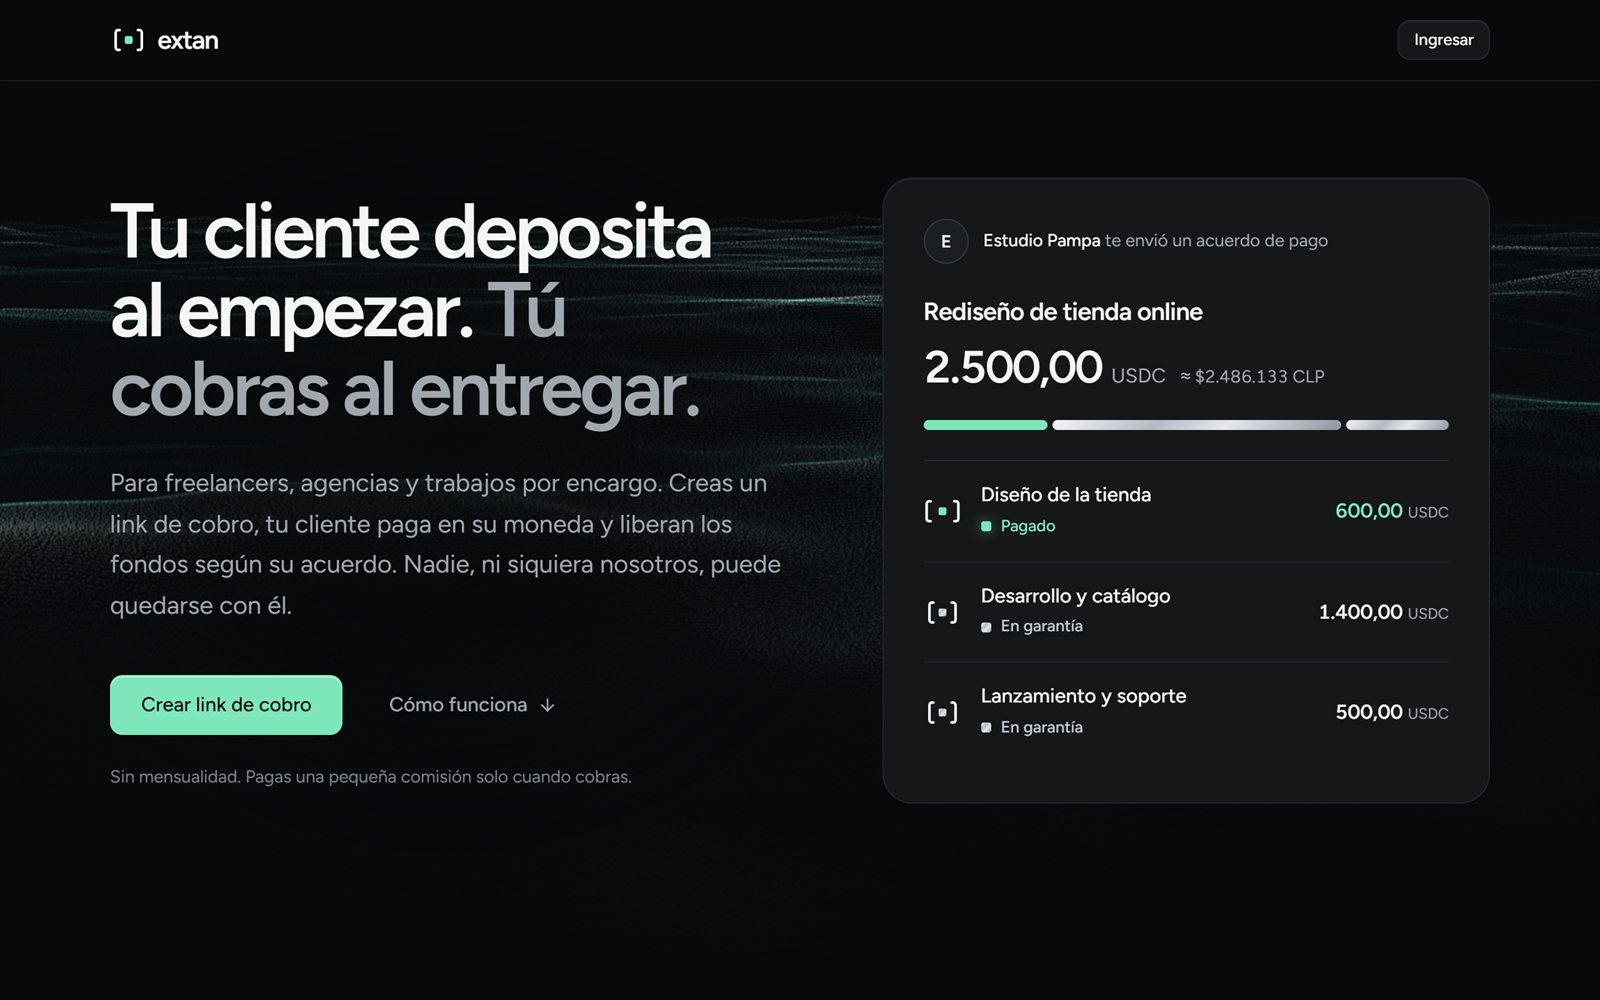
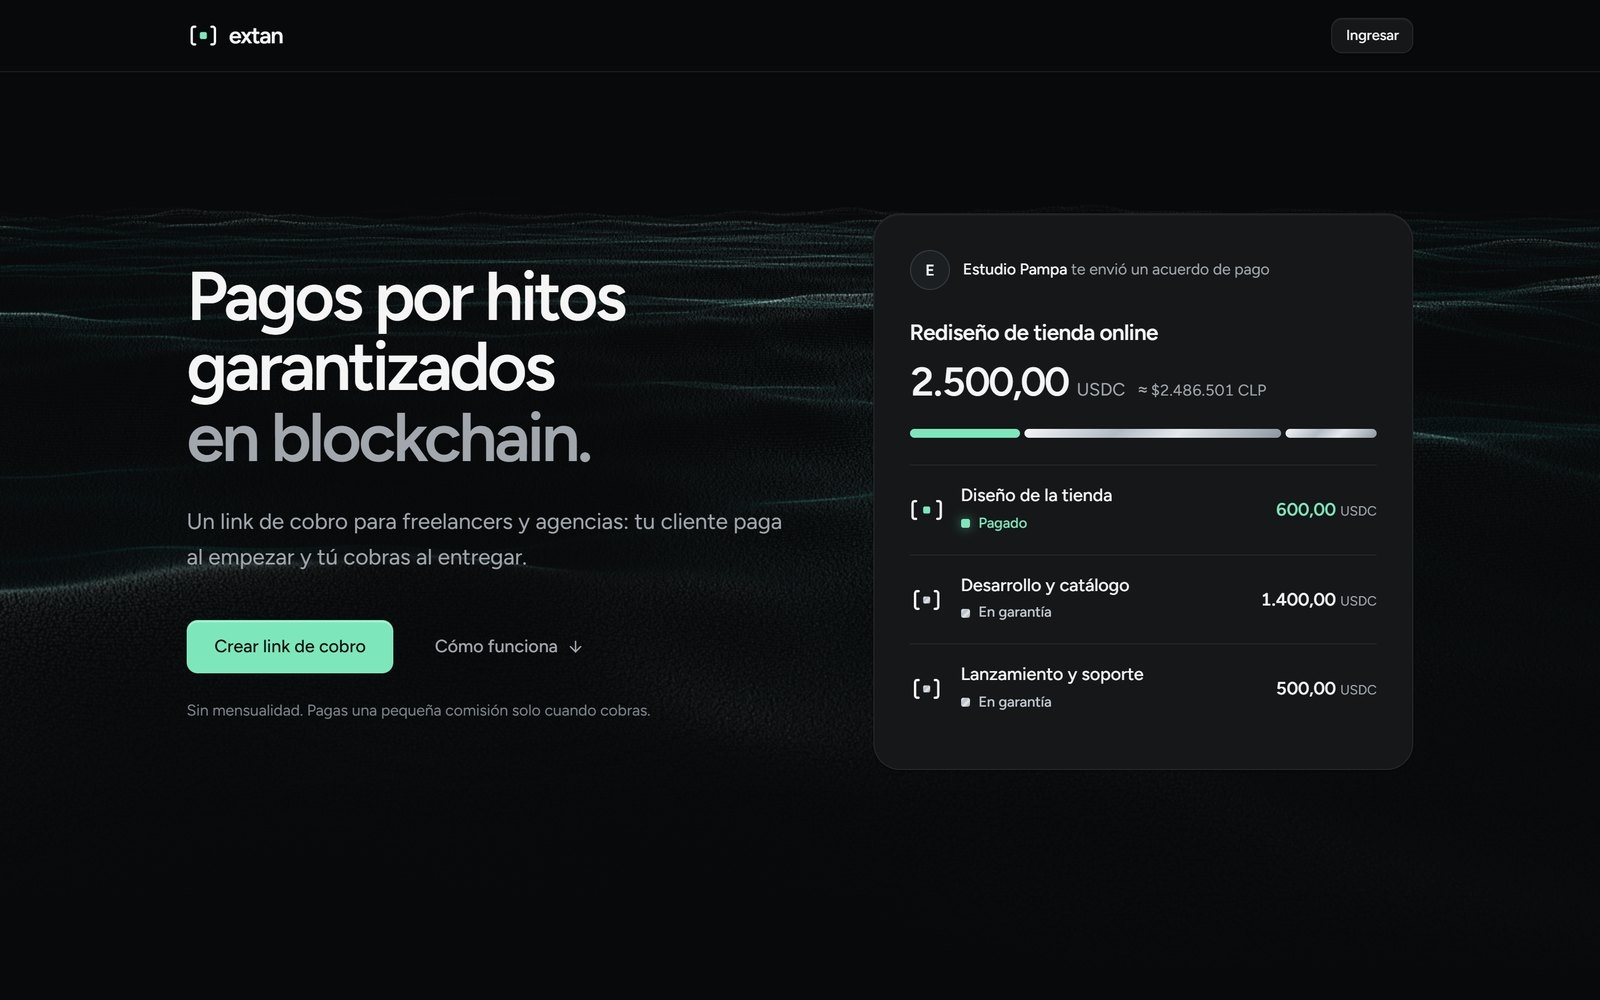
feat: portada con titular nuevo, luz de tarjetas en táctil y mar nítido en teléfonos
- H1 "Pagos por hitos garantizados en blockchain." y una sola bajada para móvil y escritorio.
- Borde más visible en "Cómo funciona" y flecha centrada ópticamente con el texto.
- SpotlightCard en táctil: la luz recorre el borde superior al pasar por el centro de la pantalla.
- Mar del hero a la densidad nativa en teléfonos (hasta 3x), con bajada automática si no sostiene la animación.
- README en inglés y español con la frase nueva y capturas de la portada al día.

diff --git a/apps/web/src/components/motion.tsx b/apps/web/src/components/motion.tsx
@@ -21,8 +21,18 @@ const RING_MASK: CSSProperties = {
 };
 
 /**
- * Superficie cuyo borde y brillo siguen al puntero. La posición se escribe como variable CSS (sin re-render) y el
- * efecto solo aparece al pasar el mouse, así que en táctil la tarjeta queda quieta.
+ * Recorrido táctil: un foco más chico que el del mouse, para que se lea como una luz que avanza, y más intenso,
+ * porque no hay un cursor encima que lo acerque a la vista.
+ */
+const SWEEP = cn(
+  "group-data-[sweep]/spot:animate-spot-sweep group-data-[sweep]/spot:[--spot-size:220px]",
+  "group-data-[sweep]/spot:[--spot-edge:rgb(125_231_187/0.95)] group-data-[sweep]/spot:[--spot-glow:rgb(125_231_187/0.08)]",
+);
+
+/**
+ * Superficie cuyo borde y brillo siguen al puntero. La posición se escribe como variable CSS (sin re-render). En
+ * táctil no hay puntero que seguir: la luz recorre el borde superior de izquierda a derecha cada vez que la tarjeta
+ * pasa por el centro de la pantalla.
  */
 export function SpotlightCard({
   children,
@@ -39,6 +49,27 @@ export function SpotlightCard({
   as?: ElementType;
 } & Omit<ComponentPropsWithoutRef<"div">, "children" | "className" | "style" | "onPointerMove">) {
   const ref = useRef<HTMLElement>(null);
+
+  useEffect(() => {
+    const host = ref.current;
+    if (!host || !window.matchMedia("(hover: none) and (prefers-reduced-motion: no-preference)").matches) return;
+    const observer = new IntersectionObserver(
+      ([entry]) => {
+        if (entry?.isIntersecting) host.dataset.sweep = "";
+      },
+      // Franja central del 20 % del alto: la tarjeta se ilumina cuando el dedo la trae al centro, no al asomarse.
+      { rootMargin: "-40% 0px -40% 0px" },
+    );
+    const finish = (event: AnimationEvent) => {
+      if (event.animationName === "spot-sweep") delete host.dataset.sweep;
+    };
+    observer.observe(host);
+    host.addEventListener("animationend", finish);
+    return () => {
+      observer.disconnect();
+      host.removeEventListener("animationend", finish);
+    };
+  }, []);
 
   function track(event: PointerEvent<HTMLElement>) {
     const host = ref.current;
@@ -58,7 +89,11 @@ export function SpotlightCard({
     >
       <span
         aria-hidden="true"
-        className="pointer-events-none absolute -inset-px rounded-[inherit] p-px opacity-0 transition-opacity duration-300 group-hover/spot:opacity-100 motion-reduce:hidden"
+        className={cn(
+          "pointer-events-none absolute -inset-px rounded-[inherit] p-px opacity-0 transition-opacity duration-300 group-hover/spot:opacity-100 motion-reduce:hidden",
+          SWEEP,
+          "group-data-[sweep]/spot:p-[1.5px]",
+        )}
         style={{
           background:
             "radial-gradient(var(--spot-size) circle at var(--spot-x, 50%) var(--spot-y, 0%), var(--spot-edge), transparent 70%)",
@@ -67,7 +102,10 @@ export function SpotlightCard({
       />
       <span
         aria-hidden="true"
-        className="pointer-events-none absolute inset-0 rounded-[inherit] opacity-0 transition-opacity duration-300 group-hover/spot:opacity-100 motion-reduce:hidden"
+        className={cn(
+          "pointer-events-none absolute inset-0 rounded-[inherit] opacity-0 transition-opacity duration-300 group-hover/spot:opacity-100 motion-reduce:hidden",
+          SWEEP,
+        )}
         style={{
           background:
             "radial-gradient(var(--spot-size) circle at var(--spot-x, 50%) var(--spot-y, 0%), var(--spot-glow), transparent 70%)",

diff --git a/apps/web/src/app/page.tsx b/apps/web/src/app/page.tsx
@@ -93,30 +93,27 @@ export default function HomePage() {
             {/* En vertical, el horizonte del mar se ubica justo debajo de este bloque. */}
             <div data-sea-horizon>
               <h1 className="text-[clamp(2.5rem,1.3rem+3.4vw,3.875rem)] leading-[1.02] tracking-[-0.045em]">
-                Tu cliente deposita al empezar. <span className="text-muted-foreground">Tú cobras al entregar.</span>
+                Pagos por hitos garantizados <span className="text-muted-foreground">en blockchain.</span>
               </h1>
-              <p className="mt-5 t-lead sm:hidden">
-                Creas un link de cobro y tu cliente paga en su moneda. El dinero queda en garantía hasta cada entrega.
-              </p>
-              <p className="mt-7 hidden t-lead sm:block sm:text-xl sm:leading-relaxed">
-                Para freelancers, agencias y trabajos por encargo. Creas un link de cobro, tu cliente paga en su moneda
-                y liberan los fondos según su acuerdo. Nadie, ni siquiera nosotros, puede quedarse con él.
+              <p className="mt-5 t-lead sm:mt-7 sm:text-xl sm:leading-relaxed">
+                Un link de cobro para freelancers y agencias: tu cliente paga al empezar y tú cobras al entregar.
               </p>
             </div>
             <div className="mt-auto flex flex-col gap-3 pt-10 sm:flex-row sm:flex-wrap sm:items-center lg:mt-10 lg:pt-0">
               <Button asChild size="xl" className="w-full sm:w-auto">
                 <Link href="/dashboard/new">Crear link de cobro</Link>
               </Button>
-              {/* Sobre el mar lleva borde y fondo translúcido; en escritorio vuelve a ser un botón fantasma. */}
+              {/* Sobre el mar lleva borde marcado y fondo translúcido; en escritorio vuelve a ser un botón fantasma. */}
               <Button
                 asChild
                 size="xl"
                 variant="ghost"
-                className="group/how w-full border-border bg-background/50 text-foreground backdrop-blur-md sm:w-auto lg:border-transparent lg:bg-transparent lg:text-muted-foreground lg:backdrop-blur-none"
+                className="group/how w-full border-line-strong bg-background/50 text-foreground backdrop-blur-md sm:w-auto lg:border-transparent lg:bg-transparent lg:text-muted-foreground lg:backdrop-blur-none"
               >
                 <a href="#como-funciona">
                   Cómo funciona
-                  <ArrowDownIcon className="transition-transform duration-200 group-hover/how:translate-y-0.5" />
+                  {/* Centrado óptico: la punta de la flecha carga su peso abajo y la hacía ver más baja que el texto. */}
+                  <ArrowDownIcon className="-translate-y-[0.5px] transition-transform duration-200 group-hover/how:translate-y-0.5" />
                 </a>
               </Button>
             </div>

diff --git a/apps/web/src/components/landing/sea-background.tsx b/apps/web/src/components/landing/sea-background.tsx
@@ -122,7 +122,14 @@ const PRESETS = {
 };
 /** Aire entre el final del texto y el horizonte, en px. */
 const HORIZON_GAP = 28;
-const MAX_DPR = 1.5;
+/**
+ * Resolución del canvas. En teléfonos se dibuja a la densidad nativa (hasta 3×): a 1,5× el navegador lo estiraba al
+ * doble y las olas se veían borrosas. En escritorio el canvas es mucho más grande y 1,5× ya se ve nítido. El tope de
+ * píxeles protege a las tablets, y si el equipo no sostiene la animación se baja la resolución (ver `adapt`).
+ */
+const MAX_DPR_HANDHELD = 3;
+const MAX_DPR_DESKTOP = 1.5;
+const PIXEL_BUDGET = 4_500_000;
 
 function hexToRgb(hex: string): [number, number, number] {
   const value = Number.parseInt(hex.replace("#", ""), 16);
@@ -304,6 +311,10 @@ export function SeaBackground({
     let frame = 0;
     let visible = false;
     let shown = false;
+    let dpr = 1;
+    let dprCap = Infinity;
+    let sampledFrames = 0;
+    let sampledTime = 0;
 
     function draw() {
       gl!.clear(gl!.COLOR_BUFFER_BIT);
@@ -319,7 +330,13 @@ export function SeaBackground({
     function resize() {
       const rect = canvas.getBoundingClientRect();
       if (!rect.width || !rect.height) return;
-      const dpr = Math.min(window.devicePixelRatio || 1, MAX_DPR);
+      const maxDpr = rect.width < 1024 ? MAX_DPR_HANDHELD : MAX_DPR_DESKTOP;
+      dpr = Math.min(
+        window.devicePixelRatio || 1,
+        maxDpr,
+        dprCap,
+        Math.sqrt(PIXEL_BUDGET / (rect.width * rect.height)),
+      );
       canvas.width = Math.round(rect.width * dpr);
       canvas.height = Math.round(rect.height * dpr);
       gl!.viewport(0, 0, canvas.width, canvas.height);
@@ -351,11 +368,32 @@ export function SeaBackground({
       draw();
     }
 
+    /**
+     * Si el equipo no sostiene unos 40 cuadros por segundo, baja la resolución un paso, hasta 1,5×. Mide 60 cuadros
+     * después de 20 de calentamiento.
+     */
+    function adapt(delta: number) {
+      if (dpr <= MAX_DPR_DESKTOP) return;
+      sampledFrames++;
+      if (sampledFrames <= 20) return;
+      sampledTime += delta;
+      if (sampledFrames < 80) return;
+      const average = sampledTime / 60;
+      sampledFrames = 0;
+      sampledTime = 0;
+      if (average > 25) {
+        dprCap = Math.max(MAX_DPR_DESKTOP, dpr - 0.75);
+        resize();
+      }
+    }
+
     function tick(now: number) {
       // Tope al salto entre cuadros: al volver de otra pestaña el mar sigue donde estaba.
-      time += (Math.min(now - (last || now), 50) / 1000) * speed;
+      const delta = Math.min(now - (last || now), 50);
+      time += (delta / 1000) * speed;
       last = now;
       draw();
+      adapt(delta);
       frame = requestAnimationFrame(tick);
     }
 

diff --git a/apps/web/src/app/globals.css b/apps/web/src/app/globals.css
@@ -54,6 +54,7 @@
   --animate-reveal: reveal 300ms var(--ease-out-soft) both;
   /* Toma su período de un --duration en línea: un solo keyframe para todas las velocidades. */
   --animate-shine: shine var(--duration) infinite linear;
+  --animate-spot-sweep: spot-sweep 1.8s ease-in-out;
 }
 
 :root {
@@ -298,6 +299,27 @@
   }
   100% {
     transform: scale(1);
+  }
+}
+
+/* Registrada para poder animarla: en táctil la luz de `SpotlightCard` recorre el borde superior de lado a lado. */
+@property --spot-x {
+  syntax: "<length-percentage>";
+  inherits: true;
+  initial-value: 50%;
+}
+@keyframes spot-sweep {
+  from {
+    --spot-x: -10%;
+    opacity: 0;
+  }
+  25%,
+  75% {
+    opacity: 1;
+  }
+  to {
+    --spot-x: 110%;
+    opacity: 0;
   }
 }
 

diff --git a/docs/roadmap.md b/docs/roadmap.md
@@ -286,6 +286,23 @@ Notas del primer recorrido real (cliente y proveedor con wallet embebida de Priv
       `$2.480.484 CLP`; CLP sin centavos). Al escribir montos, el punto es separador de miles: "2.500" ya no se lee
       como 2,5 y lo ambiguo se rechaza con una indicación.
 
+#### Portada en teléfonos reales (2026-11-13)
+
+Revisión hecha con la primera versión publicada en Vercel, en un Android y en un iPhone Pro Max.
+
+- [x] **H1 y bajada:** "Pagos por hitos garantizados en blockchain." y una sola bajada para móvil y escritorio: "Un
+      link de cobro para freelancers y agencias: tu cliente paga al empezar y tú cobras al entregar." El hero ya no
+      promete "paga en su moneda" mientras no haya on-ramp; esa promesa sigue más abajo. README e imágenes al día.
+- [x] **Proporciones en teléfonos grandes:** en un iPhone Pro Max todo se veía más chico. Se probó escalar la
+      interfaz completa con el ancho (16 a 18 px de base) y se descartó: se veía apretada y tosca. Queda el tamaño
+      fijo, que deja más aire en pantallas grandes.
+- [x] **"Cómo funciona":** sobre el mar, el botón lleva un borde más visible.
+- [x] **`SpotlightCard` en táctil:** sin mouse, la luz recorre el borde superior de izquierda a derecha cuando la
+      tarjeta pasa por el centro de la pantalla.
+- [x] **Mar del hero borroso en teléfonos:** el canvas se dibujaba como máximo a 1,5× y el navegador lo estiraba en
+      pantallas 3×. Ahora usa la densidad nativa (hasta 3×) y baja la resolución si el equipo no sostiene unos 40
+      cuadros por segundo. En escritorio sigue en 1,5×.
+
 **Cierre:** guía de marca aprobada, dominio comprado y todas las superficies existentes revisadas.
 
 ## Fase 5: Bases técnicas y staging

diff --git a/README.es.md b/README.es.md
@@ -1,8 +1,8 @@
 # extan
 
-**Pagos en garantía por hitos, en USDC sobre Base.** Un freelancer o una agencia crea un link de cobro dividido en
-hitos; el cliente deposita el total una vez y cada hito se paga cuando se aprueba su entrega. El dinero queda en un
-smart contract público, nunca en manos de la plataforma.
+**Pagos por hitos garantizados en blockchain.** Un link de cobro para freelancers y agencias: el cliente paga al
+empezar y el proveedor cobra al entregar. El depósito, en USDC sobre Base, queda en un smart contract público y nunca
+en manos de la plataforma; cada hito se libera cuando se aprueba su entrega.
 
 [English](README.md) · [Contrato verificado](https://base-sepolia.blockscout.com/address/0xb7BABf0046fb8Bb2E3Ea0e6B75abdDEb31B9F863?tab=contract) · [Informe de análisis estático](docs/analisis-estatico.md) · Demo pública: pronto
 

diff --git a/README.md b/README.md
@@ -1,8 +1,8 @@
 # extan
 
-**Milestone-based escrow payments in USDC on Base.** A freelancer or agency creates a payment link split into
-milestones; the client deposits the total once, and each milestone is paid out when its delivery is approved. The money
-sits in a public smart contract, never with the platform.
+**Milestone payments, guaranteed on-chain.** A payment link for freelancers and agencies: the client pays up front and
+the provider gets paid on delivery. The deposit, in USDC on Base, sits in a public smart contract and never with the
+platform; each milestone is released when its delivery is approved.
 
 [Español](README.es.md) · [Verified contract](https://base-sepolia.blockscout.com/address/0xb7BABf0046fb8Bb2E3Ea0e6B75abdDEb31B9F863?tab=contract) · [Static analysis report](docs/analisis-estatico.md) · Live demo: coming soon
 
